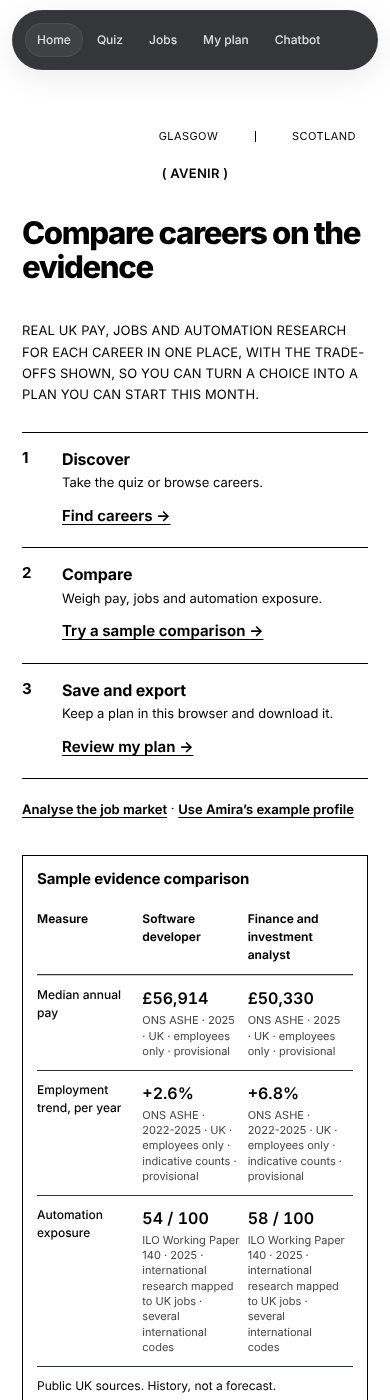
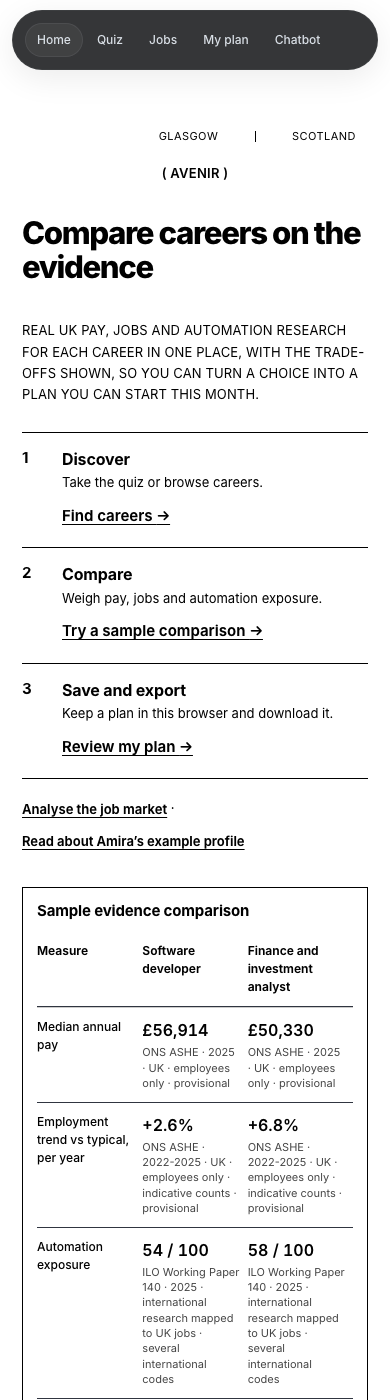
Address Avenir career journey review findings

diff --git a/apps/web/src/CareerDashboard.tsx b/apps/web/src/CareerDashboard.tsx
@@ -163,15 +163,20 @@ export default function CareerDashboard({ area, careers, ...actions }: Props) {
     return career ? [career] : [];
   });
   const evidenceButton = useRef<HTMLButtonElement>(null);
-  const [view, setView] = useState<"evidence" | "compare">("evidence");
+  const [view, setView] = useState<"evidence" | "compare">(() =>
+    window.location.hash.endsWith("/compare") ? "compare" : "evidence",
+  );
   const [selection, setSelection] = useState<Record<Area, string>>({
     cs: "2134",
     finance: "2422",
   });
   useEffect(() => {
-    const syncRole = () => {
-      const [route, soc] = window.location.hash.replace(/^#\//, "").split("/");
+    const syncDashboard = () => {
+      const [route, soc, tab] = window.location.hash
+        .replace(/^#\//, "")
+        .split("/");
       if (route !== configuration.route) return;
+      setView(soc === "compare" || tab === "compare" ? "compare" : "evidence");
       const selected =
         roles.find((role) => role.soc === soc)?.soc ?? roles[0]?.soc;
       if (!selected) return;
@@ -179,9 +184,9 @@ export default function CareerDashboard({ area, careers, ...actions }: Props) {
         current[area] === selected ? current : { ...current, [area]: selected },
       );
     };
-    syncRole();
-    window.addEventListener("hashchange", syncRole);
-    return () => window.removeEventListener("hashchange", syncRole);
+    syncDashboard();
+    window.addEventListener("hashchange", syncDashboard);
+    return () => window.removeEventListener("hashchange", syncDashboard);
   }, [area, careers]);
   const career = roles.find((item) => item.soc === selection[area]) ?? roles[0];
 
@@ -192,6 +197,15 @@ export default function CareerDashboard({ area, careers, ...actions }: Props) {
         <p>The occupation evidence is unavailable. Reload to try again.</p>
       </section>
     );
+
+  const showView = (next: typeof view) => {
+    setView(next);
+    window.history.replaceState(
+      window.history.state,
+      "",
+      `#/${configuration.route}/${career.soc}${next === "compare" ? "/compare" : ""}`,
+    );
+  };
 
   const evidence = careerEvidence[career.soc];
   const pay = career.metrics.pay_median;
@@ -259,7 +273,7 @@ export default function CareerDashboard({ area, careers, ...actions }: Props) {
             aria-pressed={career.soc === role.soc}
             onClick={() => {
               setSelection((current) => ({ ...current, [area]: role.soc }));
-              window.location.hash = `/${configuration.route}/${role.soc}`;
+              window.location.hash = `/${configuration.route}/${role.soc}${view === "compare" ? "/compare" : ""}`;
             }}
           >
             {role.title}
@@ -271,13 +285,13 @@ export default function CareerDashboard({ area, careers, ...actions }: Props) {
         <button
           ref={evidenceButton}
           aria-pressed={view === "evidence"}
-          onClick={() => setView("evidence")}
+          onClick={() => showView("evidence")}
         >
           Evidence
         </button>
         <button
           aria-pressed={view === "compare"}
-          onClick={() => setView("compare")}
+          onClick={() => showView("compare")}
         >
           Compare careers
         </button>

diff --git a/apps/web/src/Landing.tsx b/apps/web/src/Landing.tsx
@@ -235,7 +235,7 @@ export default function Landing({
 }: {
   careers: Career[];
   onChoose: (mode: "known" | "explore") => void;
-  onDashboard: (area: "cs" | "finance") => void;
+  onDashboard: (area: "cs" | "finance", view?: "compare") => void;
   onAmira?: () => void;
   amiraBusy?: boolean;
   amiraError?: string;
@@ -247,6 +247,7 @@ export default function Landing({
   onLocation: (location: string) => void;
   resume?: { title: string; onResume: () => void };
 }) {
+  const amiraCard = useRef<HTMLElement>(null);
   const sample = useMemo(() => heroSample(careers, metricLabel), [careers]);
   return (
     <div className="avenir-landing">
@@ -311,7 +312,7 @@ export default function Landing({
                 <div>
                   <strong>Compare</strong>
                   <p>Weigh pay, jobs and automation exposure.</p>
-                  <button onClick={() => onDashboard("cs")}>
+                  <button onClick={() => onDashboard("cs", "compare")}>
                     Try a sample comparison <i>→</i>
                   </button>
                 </div>
@@ -332,15 +333,10 @@ export default function Landing({
             <p className="ed-secondary">
               <button onClick={onJobs}>Analyse the job market</button>
               <span aria-hidden="true"> · </span>
-              <button onClick={onAmira} disabled={!onAmira || amiraBusy}>
-                {amiraBusy ? "Comparing…" : "Use Amira’s example profile"}
+              <button onClick={() => amiraCard.current?.focus()}>
+                Read about Amira’s example profile
               </button>
             </p>
-            {amiraError && (
-              <p className="amira-error" role="alert">
-                {amiraError}
-              </p>
-            )}
           </div>
           <section
             className="hero-sample"
@@ -406,7 +402,12 @@ export default function Landing({
         <header className="subjects-heading">
           <h2 id="subjects-heading">Start with a subject</h2>
         </header>
-        <article className="amira-journey" aria-labelledby="amira-heading">
+        <article
+          className="amira-journey"
+          aria-labelledby="amira-heading"
+          ref={amiraCard}
+          tabIndex={-1}
+        >
           <span className="amira-kicker">Example profile</span>
           <h2 id="amira-heading">Amira, 17, S6 in Glasgow</h2>
           <p>
@@ -419,7 +420,7 @@ export default function Landing({
           <button
             className="mission-cta mission-cta-primary"
             onClick={onAmira}
-            disabled={amiraBusy}
+            disabled={!onAmira || amiraBusy}
           >
             {amiraBusy ? "Comparing…" : "Use Amira’s example profile"}
           </button>

diff --git a/apps/web/src/heroSample.ts b/apps/web/src/heroSample.ts
@@ -1,6 +1,6 @@
-import type { Career } from "./types";
-import type { Metric } from "./types";
+import type { Career, Metric } from "./types";
 import type { MetricLabel } from "./metricLabel";
+import { demandTrendLabel } from "./planDocument";
 
 /** The two example roles compared in the Home hero (Computer Science and Finance). */
 export const sampleSocs = ["2134", "2422"] as const;
@@ -52,21 +52,44 @@ export function heroSample(
   careers: Career[],
   describe: (metric?: Metric) => MetricLabel,
 ): SampleRow[] {
-  const pair = sampleSocs.map((soc) => careers.find((c) => c.soc === soc));
-  if (pair.some((c) => !c)) return [];
-  return rows.map((row) => ({
-    key: row.key,
-    label: row.label,
-    cells: (pair as Career[]).map((career) => {
-      const metric = career.metrics[row.key];
-      const label = describe(metric);
-      const available = label.available;
-      return {
-        career: career.title,
-        value: available ? row.show(metric.value as number) : "Not available",
-        available,
-        source: available ? label.text : label.unavailableReason,
-      };
-    }),
-  }));
+  const pair = sampleSocs.flatMap((soc) => {
+    const career = careers.find((candidate) => candidate.soc === soc);
+    return career ? [career] : [];
+  });
+  if (pair.length !== sampleSocs.length) return [];
+  return rows.map((row) => {
+    const metrics = pair.map((career) => career.metrics[row.key]);
+    const labels = metrics.map(describe);
+    const trendLabels =
+      row.key === "demand_trend"
+        ? metrics.flatMap((metric, index) =>
+            labels[index].available ? [demandTrendLabel(metric)] : [],
+          )
+        : [];
+    const separateTrendLabels = new Set(trendLabels).size > 1;
+    return {
+      key: row.key,
+      label:
+        trendLabels.length && !separateTrendLabels
+          ? `${trendLabels[0]}, per year`
+          : row.label,
+      cells: pair.map((career, index) => {
+        const metric = metrics[index];
+        const label = labels[index];
+        const trendDescription = separateTrendLabels
+          ? `${demandTrendLabel(metric)} · `
+          : "";
+        return {
+          career: career.title,
+          value: label.available
+            ? row.show(metric.value as number)
+            : "Not available",
+          available: label.available,
+          source: label.available
+            ? `${trendDescription}${label.text}`
+            : label.unavailableReason,
+        };
+      }),
+    };
+  });
 }

diff --git a/apps/web/src/App.tsx b/apps/web/src/App.tsx
@@ -106,10 +106,10 @@ export default function App() {
   const [amiraError, setAmiraError] = useState("");
   const [inspect, setInspect] = useState<Career | null>(null);
   const mainRef = useRef<HTMLElement>(null);
-  const go = (p: Page, soc?: string) => {
+  const go = (p: Page, detail?: string) => {
     setPage(p);
-    setGuideSoc(p === "guides" ? (soc ?? null) : null);
-    window.location.hash = `/${p}${p === "guides" && soc ? `/${soc}` : ""}`;
+    setGuideSoc(p === "guides" ? (detail ?? null) : null);
+    window.location.hash = `/${p}${detail ? `/${detail}` : ""}`;
     window.scrollTo(0, 0);
     setTimeout(() => mainRef.current?.focus({ preventScroll: true }), 0);
   };
@@ -447,8 +447,8 @@ export default function App() {
                 location={prefs.location}
                 onNation={(nation) => update({ nation })}
                 onLocation={(location) => update({ location })}
-                onDashboard={(area) =>
-                  go(area === "cs" ? "computer-science" : "finance")
+                onDashboard={(area, view) =>
+                  go(area === "cs" ? "computer-science" : "finance", view)
                 }
                 resume={
                   primary

diff --git a/README.md b/README.md
@@ -68,7 +68,12 @@ Needs Python 3.12+ and Node 20+. No keys required; optional settings are in `.en
 
 ## Tests
 
-686 Python tests (3 more skipped) and 55 Node tests: `make check` (also runs lint, build and a secret scan; CI runs the same).
+Run `make check` for Python and Node tests, lint, the production build and the secret scan. CI also runs the signed-out career journey in Chromium. After local setup and a production build, run it with:
+
+```sh
+npm --prefix apps/web exec -- playwright install --only-shell chromium
+npm --prefix apps/web run test:browser
+```
 
 ## Team and my role
 
